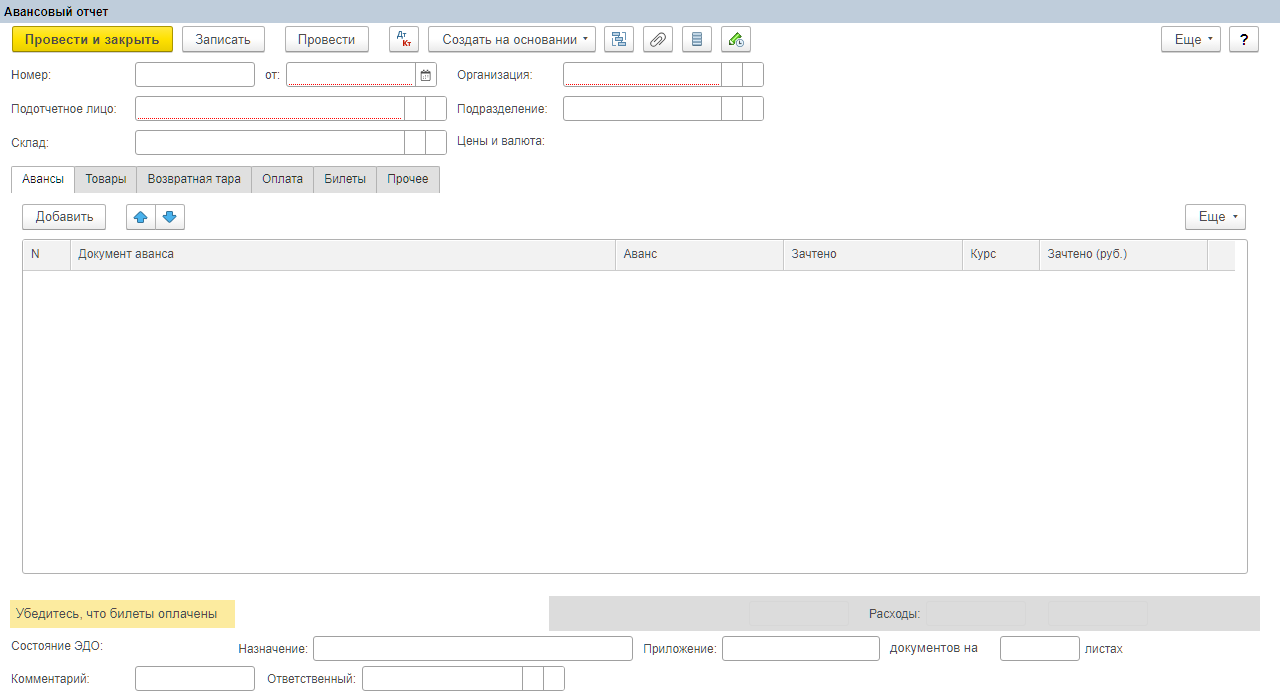
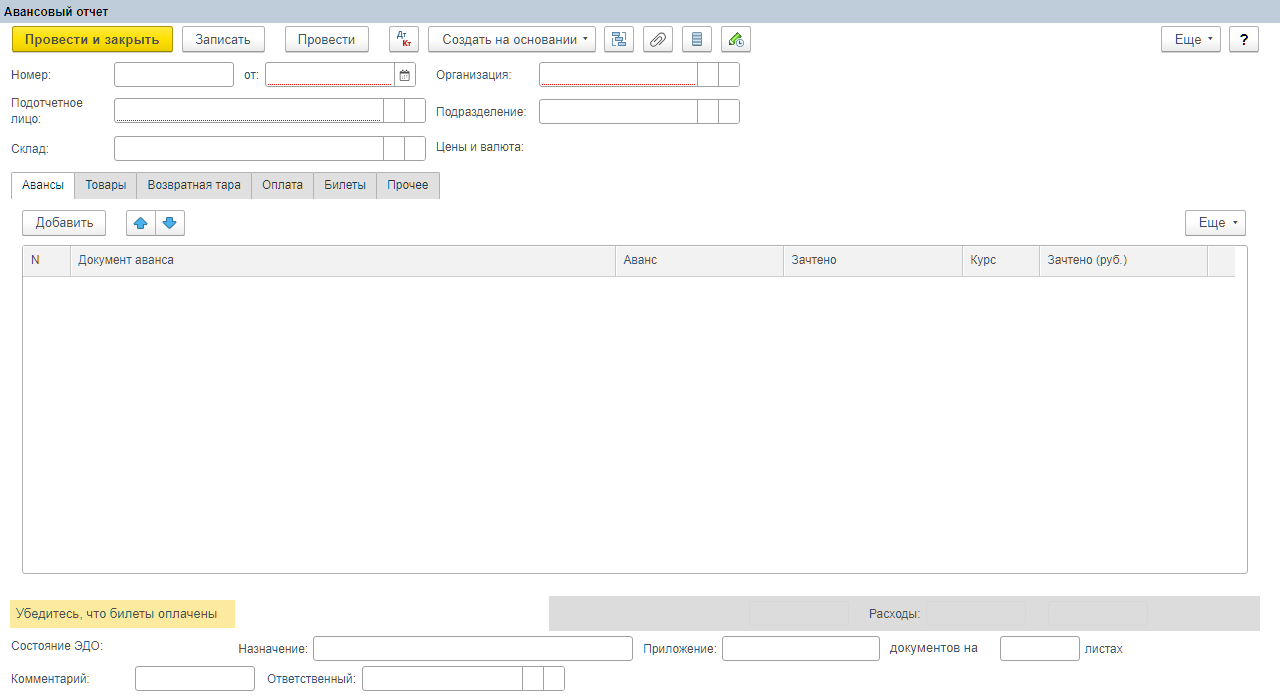
feat(forms): общая колонка подписей у группы со сквозным выравниванием
Группа с ThroughAlign=Use отдаёт одну колонку подписей всем своим вертикальным колонкам, а вклад каждой подписи считается по двум строкам: у «Авансового отчёта» колонка стала 98 px вместо 119, поле «Номер» начинается на 114, как в конфигураторе, и «Подотчетное лицо:» переносится на две строки.

diff --git a/resources/formpreview/js/form-preview.js b/resources/formpreview/js/form-preview.js
@@ -14084,6 +14084,83 @@ function fitWrappedSideCaptions(root) {
     return changed;
 }
 
+/* ThroughAlign=Use на горизонтальной группе задаёт общую колонку подписей для
+ * всех её вертикальных колонок: платформа считает её по самой широкой подписи,
+ * разложенной не более чем в две строки, и переносит длинную подпись.
+ * Сверка «Авансового отчёта» (полотно 988x438): в конфигураторе поле «Номер»
+ * начинается на x=114 при отступе страницы 10, то есть колонка подписей —
+ * 98 px по «Подразделение:» (глифы 95); «Подотчетное лицо:» переносится на две
+ * строки, и обе колонки шапки стоят на одной подписи (правая — тоже 104 px от
+ * своего края). До прохода каждая колонка считала свою подпись целиком:
+ * левая — 119 px по «Подотчетное лицо:», правая — 101, и поле съезжало на 21 px. */
+function containedColumnCaptionLabels(box) {
+    var columns = [];
+    if (!box || !box.children) return columns;
+    for (var i = 0; i < box.children.length; i++) {
+        var child = box.children[i];
+        if (!child.classList || !child.classList.contains('fp-item')) continue;
+        if (child.dataset && child.dataset.tag === 'AutoCommandBar') return [];
+        var columnBox = child.querySelector(
+            ':scope > .fp-control-wrap > .fp-group-bare > .fp-children-vertical, '
+            + ':scope > .fp-control-wrap > .fp-group-block > .fp-children-vertical');
+        if (!columnBox) return [];
+        var labels = collectFieldLabels(columnBox, true);
+        if (!labels.length) return [];
+        columns.push(labels);
+    }
+    return columns.length >= 2 ? columns : [];
+}
+
+/* Ячейка подписи в общей колонке: глиф плюс 7 px (1 px оболочки элемента и
+ * 6 px до поля). 90.8 px у «Подразделение:» дают 98 — ровно как в
+ * конфигураторе; собственный `throughAlignTitleChrome` (11) сюда не годится,
+ * он считает одиночную колонку страницы вместе с её отступом. */
+var THROUGH_ALIGN_LANE_CHROME = 7;
+
+function sharedThroughAlignLaneWidth(columns) {
+    var widest = 0;
+    for (var c = 0; c < columns.length; c++) {
+        for (var i = 0; i < columns[c].length; i++) {
+            var label = columns[c][i];
+            /* Две строки — не более: подпись из одного слова шире не станет,
+             * а длинная переносится и не растягивает колонку на всю строку. */
+            var metric = Math.min(throughAlignGlyphMetric(label),
+                twoLineLabelMetric(label) || Infinity);
+            widest = Math.max(widest, metric);
+        }
+    }
+    if (!widest) return 0;
+    return Math.round(widest + THROUGH_ALIGN_LANE_CHROME);
+}
+
+function fitSharedThroughAlignCaptionLane(root) {
+    if (!root || !root.querySelectorAll) return 0;
+    var boxes = root.querySelectorAll('.fp-children-horizontal');
+    var changed = 0;
+    for (var i = 0; i < boxes.length; i++) {
+        var box = boxes[i];
+        if (!box.dataset
+            || String(box.dataset.fpThroughAlign || '').toLowerCase() !== 'use') continue;
+        var columns = containedColumnCaptionLabels(box);
+        if (!columns.length) continue;
+        var lane = sharedThroughAlignLaneWidth(columns);
+        if (lane < 24 || lane > 280) continue;
+        var width = lane + 'px';
+        for (var c = 0; c < columns.length; c++) {
+            for (var l = 0; l < columns[c].length; l++) {
+                var label = columns[c][l];
+                if (label.style.minWidth === width && label.style.maxWidth === width)
+                    continue;
+                label.style.minWidth = width;
+                label.style.maxWidth = width;
+                label.style.whiteSpace = 'normal';
+                changed++;
+            }
+        }
+    }
+    return changed;
+}
+
 function applyLabelWidth(labels, forceAcrossColumns, ownerBox) {
     if (!labels || !labels.length) return;
     /* A lone wrapped caption still owns the longest-line track. Without
@@ -21192,6 +21269,7 @@ function runHorizontalStrategyPass(body) {
         body.dataset.fpFittedPhysicalTableColumns = String(state.fittedPhysicalTableColumns || 0);
     }
     fitWrappedSideCaptions(body);
+    fitSharedThroughAlignCaptionLane(body);
     fitAllLeadingCaptionsBeforeTitledPagesNone(body);
     if (!version85ConfigBody(body)) fitFollowingTooltipTitleTracks(body);
     if (!version85ConfigBody(body)) fitSideEditorTooltips(body);
@@ -23443,6 +23521,7 @@ function render(model, container, options) {
             body.classList.add('fp-root-content-top-inset');
         equalizeLocalFieldBlocks(body);
         fitWrappedSideCaptions(body);
+        fitSharedThroughAlignCaptionLane(body);
         fitAllLeadingCaptionsBeforeTitledPagesNone(body);
         anchorBottomAlignedRuns(body);
         var strategyState = runHorizontalStrategyPass(body);

diff --git a/docs/form-exact-view.md b/docs/form-exact-view.md
@@ -982,6 +982,10 @@ python tools/form_view_measure.py pair --ours out/ours.png --out out/pair.png
 и снимок в одну картинку. `--object`, `--form`, `--cf` и `--width/--height`
 переопределяют объект, форму, контейнер и размер полотна.
 
+Картинка точного вида в `README.md` и в описаниях релизов — снимок панели формы
+при 1280×700: `render --width 1280 --height 700 --out out/exact-1280.png`.
+Её и кладут в `docs/screenshot-form-exact.png`.
+
 `render` перед снятием раскладывает `resources/formpreview` в каталог раздачи
 (то же делает `sync`). Без этого снимок идёт по копии, оставшейся от прошлой
 правки, и исправление в CSS или в скрипте «не видно» — на этом уже потерялось
@@ -999,12 +1003,32 @@ python tools/form_view_measure.py pair --ours out/ours.png --out out/pair.png
 
 | Элемент | Конфигуратор | Сейчас | Замечание |
 |---|---|---|---|
-| начало поля «Номер» | 114 | 135 | колонка подписей шире на 21 px |
-| «Номер» | 121 | 120 | ширина совпала |
-| «Дата» | 266…426 | 286…415 | уже на 31 px |
-| «Организация» | 637…927 (до 969) | 563…721 (до 763) | уже на 132 px, не доходит до края формы |
-| «Подотчетное лицо» | 114…523 | 135…446 | уже на 98 px |
-| подпись «Подотчетное лицо:» | в две строки | в одну | из-за широкой колонки подписей |
+| начало поля «Номер» | 114 | 114 | колонка подписей совпала |
+| «Номер» | 114…234 | 114…233 | ширина совпала (120 px) |
+| «Дата» | 266…426 | 265…415 | уже на 10 px: у поля 14 знаков вместо 15 |
+| «Организация» | 637…927 (до 969) | 539…697 (до 739) | колонка начинается на 98 px раньше |
+| «Подотчетное лицо» | 114…481 (до 523) | 114…383 (до 425) | уже на 98 px |
+| подпись «Подотчетное лицо:» | в две строки | в две строки | совпало |
+
+Колонка подписей шапки — общая для обеих колонок и считается по самой широкой
+подписи, разложенной не более чем в две строки: «Подразделение:» (глифы 90 px)
+даёт 98 px, то есть поле начинается на 114 при отступе страницы 10 px. Поэтому
+«Подотчетное лицо:» переносится на две строки, как в конфигураторе. Правило
+в `fitSharedThroughAlignCaptionLane` (`form-preview.js`): группа с
+`ThroughAlign=Use` отдаёт одну колонку подписей всем своим вертикальным
+колонкам, а вклад каждой подписи — `min(ширина строки, ширина двух строк)`.
+До прохода каждая колонка считала свою подпись целиком: левая — 119 px по
+«Подотчетное лицо:», правая — 101, и поле съезжало на 21 px.
+
+Правая колонка шапки в конфигураторе доходит до рамки формы, у нас — нет:
+платформа выдаёт первой колонке её предпочтительную ширину (колонка подписей
+104 px + поле «Физические лица» 409 px = 513), а последней отдаёт остаток
+(969 − 533 = 436), поэтому «Организация» растягивается до 332 px. Наш рендерер
+держит колонки по содержимому (417 и 306 px), а поле ссылки считает по 15
+знакам вместо 40: длина представления ссылки берётся из метаданных объекта,
+на который ссылается реквизит (у «Физических лиц» и «Организаций» она больше
+40, и платформа ограничивает поле 40 знаками — 410 px). Модель пока не отдаёт
+этих метаданных, поэтому поле «Подотчетное лицо» выходит 311 px вместо 409.
 
 Таблица (строка 248 — шапка таблицы; границы колонок по x):
 
@@ -1065,15 +1089,17 @@ python tools/form_view_measure.py pair --ours out/ours.png --out out/pair.png
   окна (153, 180, 209) без текста, у нас — 23 px, белая и с названием формы.
   Цвета в замер не идут (это оформление редактора), но высота сдвигает всё
   содержимое на 2 px.
-- Ширина полей в модели уже совпадает с платформой: у «Подотчетного лица» и
-  «Организации» рендерер ставит одинаковый предел 410 px (как в конфигураторе),
-  но вписывает поле в ширину своей колонки, а колонка остаётся
-  «по содержимому». Конфигуратор для этой формы отдаёт свободное место
-  колонкам (левая — 518 px, правая — 438 px), поэтому поле «Организация»
-  доходит до правого края полотна.
+- Ширина поля в модели ограничена как у платформы (у «Подотчетного лица»
+  и «Организации» предел 410 px), но сам предел наш рендерер не выбирает: он
+  считает поле ссылки по 15 знакам, а платформа — по длине представления
+  объекта, на который ссылается реквизит, с ограничением в 40 знаков. Поэтому
+  поле «Подотчетное лицо» выходит 311 px вместо 409, а колонка шапки остаётся
+  «по содержимому»: конфигуратор отдаёт первой колонке её предпочтительную
+  ширину (513 px), а последней — остаток (436 px).
 - Подписи в шапке выровнены сквозным выравниванием: в конфигураторе колонка
   подписей — 104 px (по самой широкой, «Подразделение:»), поэтому «Подотчетное
-  лицо:» переносится на две строки; у нас колонка равна 119 px по этой подписи.
+  лицо:» переносится на две строки; у нас колонка теперь та же — 98 px плюс
+  отступы, и подпись переносится так же (см. `fitSharedThroughAlignCaptionLane`).
 - Ширина таблицы в обоих случаях почти одна (у нас 933 px против 937), и
   колонки теперь укладываются в сетку: горизонтальной прокрутки нет, а границы
   колонок начиная с «Аванса» совпали попиксельно. Разница осталась в первых
